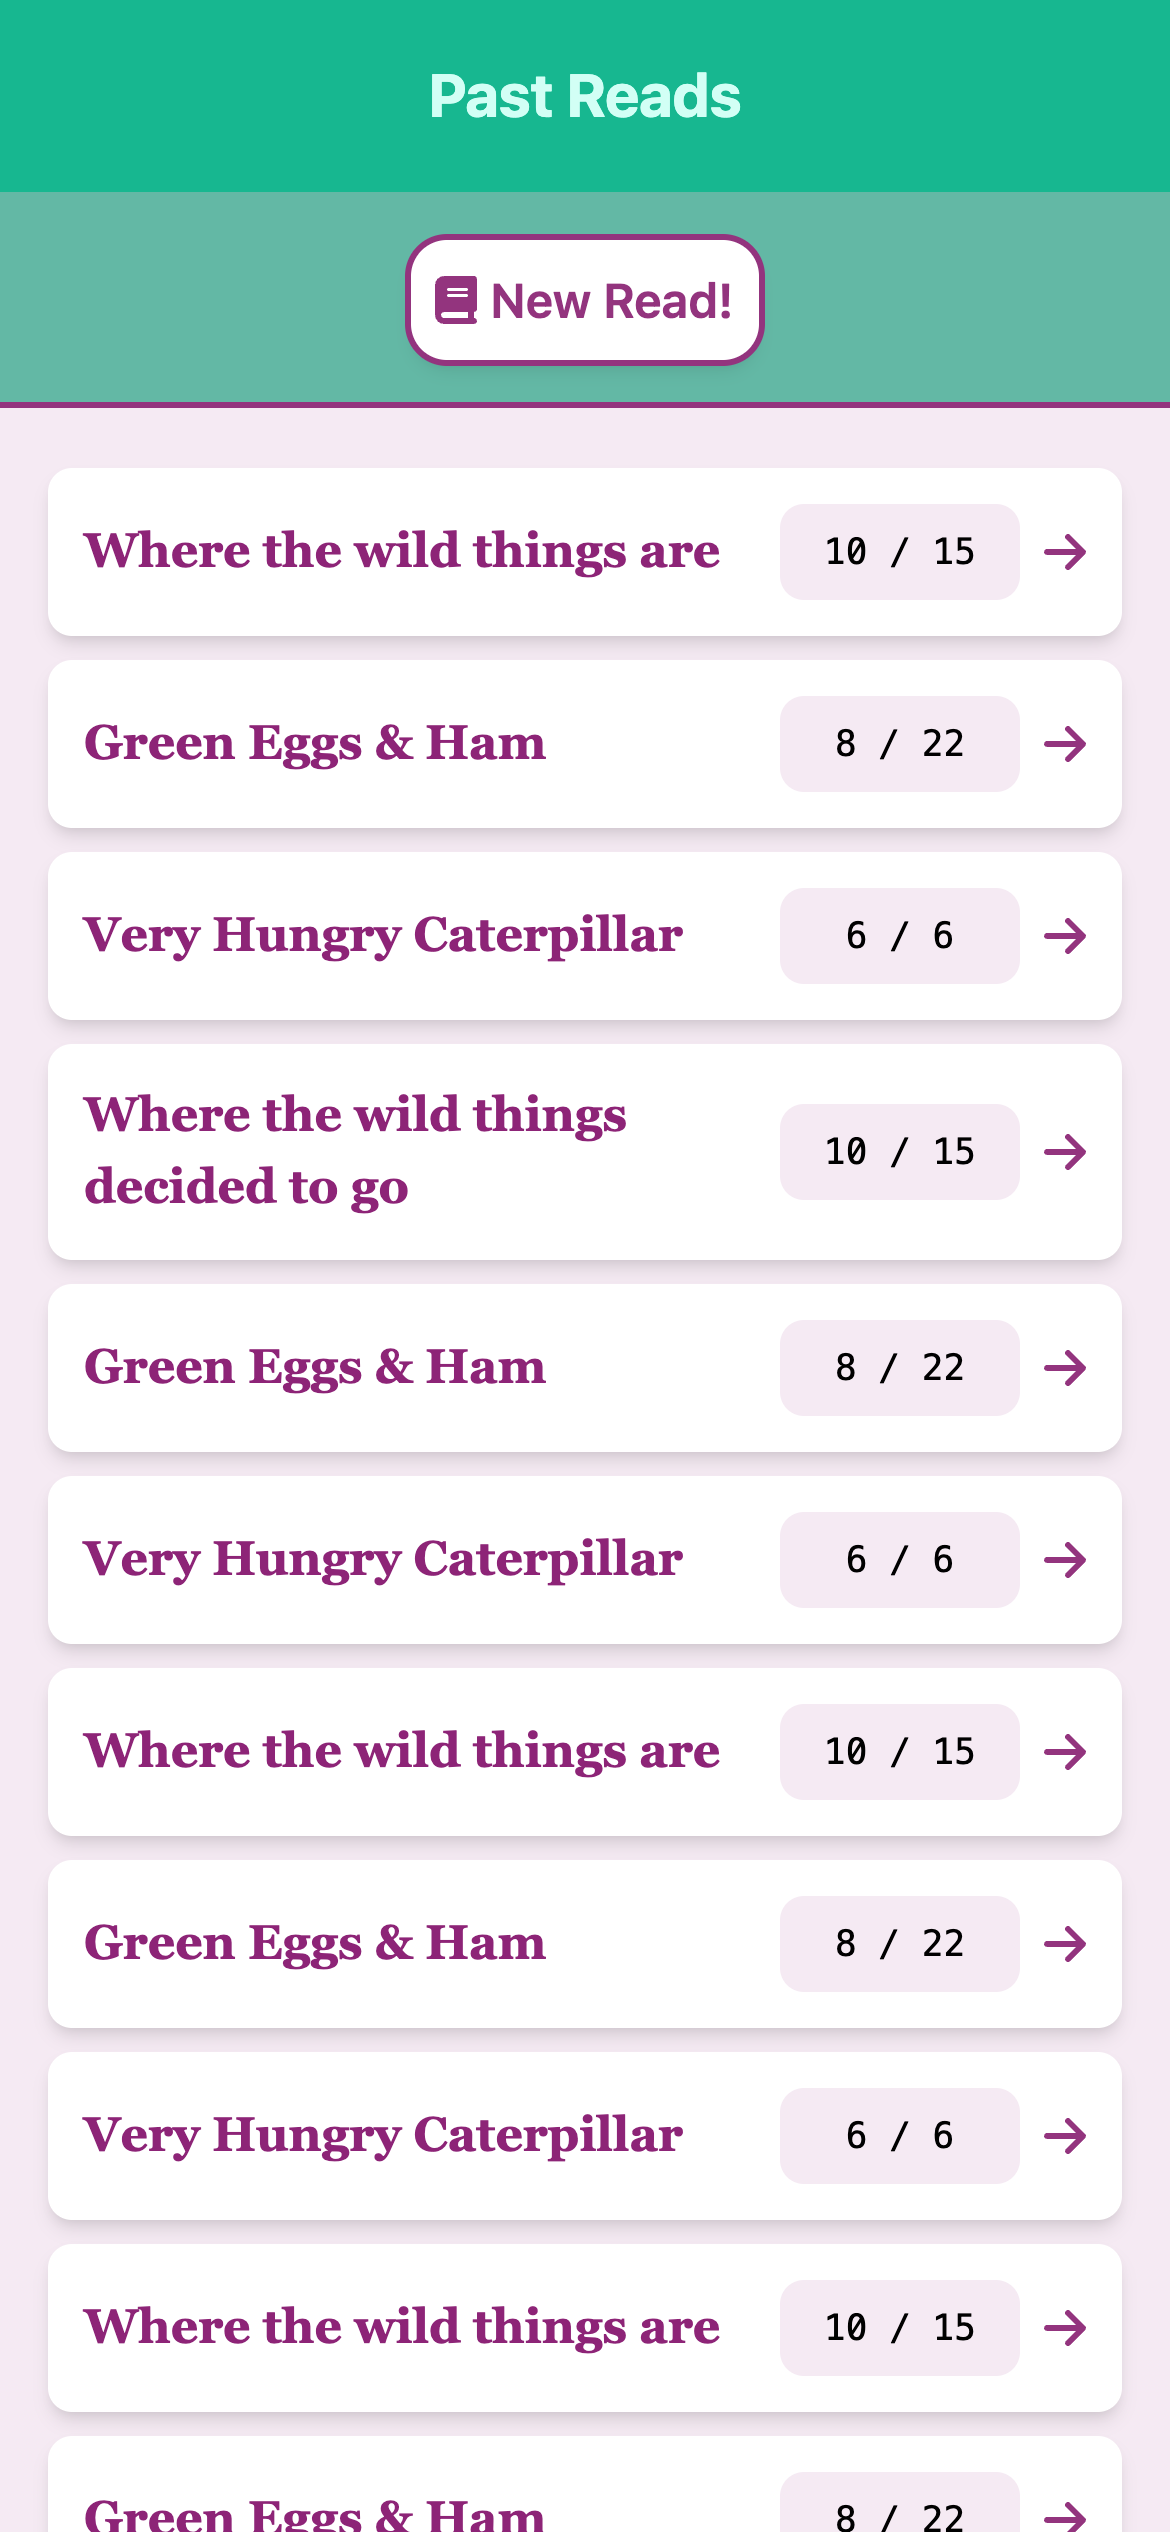
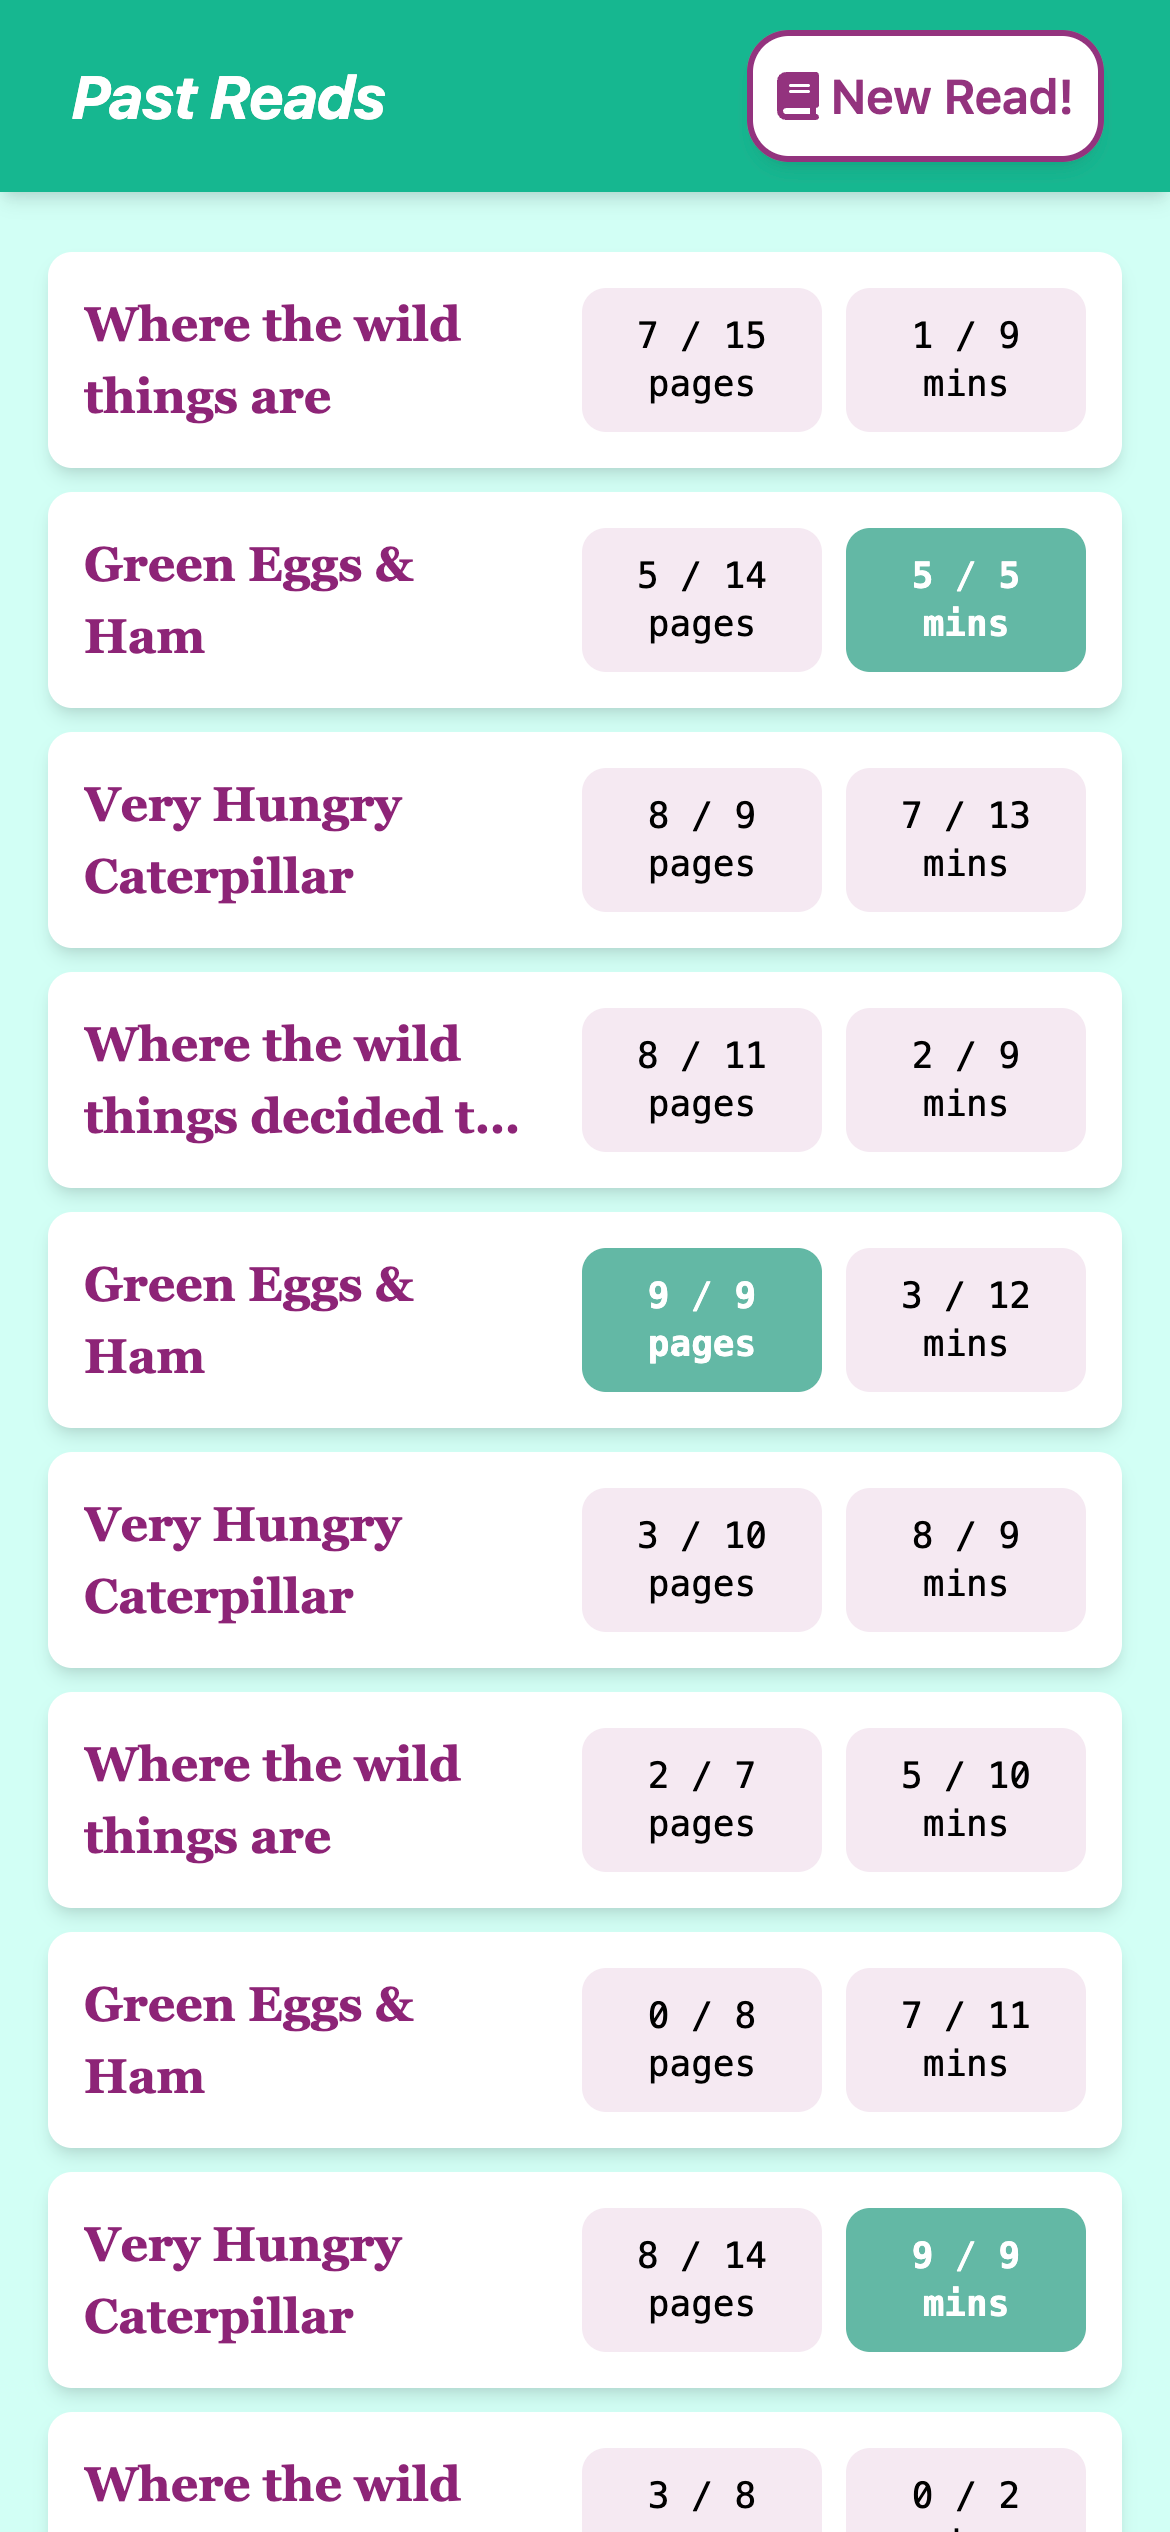
updated screenshots and formatting

diff --git a/src/components/pages/PastReads.tsx b/src/components/pages/PastReads.tsx
@@ -1,67 +1,83 @@
-import { FontAwesomeIcon } from "@fortawesome/react-fontawesome";
 import HDiv from "../utils/HDiv";
 import Spacer from "../utils/Spacer";
 import VList from "../utils/VList";
-import { faArrowRight } from "@fortawesome/free-solid-svg-icons";
 
 interface Read {
   title: string;
   duration: number;
   progress: number;
+  pages: number;
+  pageTarget: number;
 }
 
 class GenericRead implements Read {
   title: string;
   duration: number;
   progress: number;
+  pages: number;
+  pageTarget: number;
 
-  constructor(title: string, duration: number, progress: number) {
+  constructor(title: string) {
     this.title = title;
-    this.duration = duration;
-    this.progress = progress;
+    this.progress = Math.floor(Math.random() * 10);
+    this.duration = this.progress + Math.floor(Math.random() * 10);
+    this.pages = Math.floor(Math.random() * 10);
+    this.pageTarget = this.pages + Math.floor(Math.random() * 10);
   }
 }
 
 const reads: Read[] = [
-  new GenericRead("Where the wild things are", 15, 10),
-  new GenericRead("Green Eggs & Ham", 22, 8),
-  new GenericRead("Very Hungry Caterpillar", 6, 6),
-  new GenericRead("Where the wild things decided to go", 15, 10),
-  new GenericRead("Green Eggs & Ham", 22, 8),
-  new GenericRead("Very Hungry Caterpillar", 6, 6),
-  new GenericRead("Where the wild things are", 15, 10),
-  new GenericRead("Green Eggs & Ham", 22, 8),
-  new GenericRead("Very Hungry Caterpillar", 6, 6),
-  new GenericRead("Where the wild things are", 15, 10),
-  new GenericRead("Green Eggs & Ham", 22, 8),
-  new GenericRead("Very Hungry Caterpillar", 6, 6),
-  new GenericRead("Where the wild things are", 15, 10),
-  new GenericRead("Green Eggs & Ham", 22, 8),
-  //   new GenericRead("Very Hungry Caterpillar", 6, 6),
+  new GenericRead("Where the wild things are"),
+  new GenericRead("Green Eggs & Ham"),
+  new GenericRead("Very Hungry Caterpillar"),
+  new GenericRead("Where the wild things decided to go"),
+  new GenericRead("Green Eggs & Ham"),
+  new GenericRead("Very Hungry Caterpillar"),
+  new GenericRead("Where the wild things are"),
+  new GenericRead("Green Eggs & Ham"),
+  new GenericRead("Very Hungry Caterpillar"),
+  new GenericRead("Where the wild things are"),
+  new GenericRead("Green Eggs & Ham"),
+  new GenericRead("Very Hungry Caterpillar"),
+  new GenericRead("Where the wild things are"),
+  new GenericRead("Green Eggs & Ham"),
+  //   new GenericRead("Very Hungry Caterpillar"),
 ];
 
 function PastReadRow({ read }: { read: Read }) {
-  const { title, duration, progress } = read;
+  const { title, pages, pageTarget, duration, progress } = read;
 
   return (
     <HDiv className="m-1 p-3 bg-white rounded-lg shadow-md gap-2">
-      <h2 className="font-semibold font-serif text-rbp-700">{title}</h2>
+      <h2 className="font-semibold font-serif text-rbp-700 line-clamp-2">
+        {title}
+      </h2>
       <Spacer />
       <p
-        className={`font-mono text-xs bg-rbp-0 rounded-lg p-2 min-w-20 max-w-20 text-center`}
+      className={`font-mono text-xs ${pages === pageTarget ? "bg-rbg-200 text-white font-bold" : "bg-rbp-0"} rounded-lg p-2 min-w-20 max-w-20 text-center`}
+      >
+        {pages}
+        <span className="font-thin">{" / "}</span>
+        {pageTarget}
+        <br />
+        pages
+      </p>
+      <p
+      className={`font-mono text-xs ${progress === duration ? "bg-rbg-200 text-white font-bold" : "bg-rbp-0"} rounded-lg p-2 min-w-20 max-w-20 text-center`}
       >
         {progress}
         <span className="font-thin">{" / "}</span>
         {duration}
+        <br />
+        mins
       </p>
-      <FontAwesomeIcon className="text-rbp-500" icon={faArrowRight} />
     </HDiv>
   );
 }
 
 export default function PastReads() {
   return (
-    <VList className="px-4 mt-4 ring-2 ring-rbp-500 pt-4 bg-rbp-0">
+    <VList className="px-4 py-4 pb-12 bg-rbg-0">
       {reads.map((read, i) => (
         <PastReadRow key={i} read={read} />
       ))}

diff --git a/src/components/layout/Toolbar.tsx b/src/components/layout/Toolbar.tsx
@@ -2,13 +2,16 @@ import HDiv from "../utils/HDiv";
 import { RouteProps, routeToTitle } from "../../types/Route";
 import BackButton from "../reused/BackButton";
 import Spacer from "../utils/Spacer";
+import TimeButton from "../reused/TimeButton";
 
 export default function Toolbar({ route, setRoute }: RouteProps) {
   return (
-    <HDiv id="toolbar" className="h-1/6 bg-rbg-700 p-6">
+    <HDiv id="toolbar" className="h-1/6 bg-rbg-700 p-6 shadow-md z-10">
       {route === "list" && (
         <HDiv>
-          <h1 className="text-xl text-rbg-0 font-bold">Past Reads</h1>
+          <h1 className="text-xl text-white italic font-bold">Past Reads</h1>
+          <Spacer />
+          <TimeButton setRoute={setRoute} destination="setup" />
         </HDiv>
       )}
 
@@ -22,7 +25,7 @@ export default function Toolbar({ route, setRoute }: RouteProps) {
         <>
           <BackButton setRoute={setRoute} />
           <Spacer />
-          <h3 className="p-2 rounded-lg bg-white italic text-rbp-700 font-bold px-4">
+          <h3 className=" text-white text-xl italic font-bold">
             {routeToTitle(route)}
           </h3>
         </>

diff --git a/src/components/layout/Content.tsx b/src/components/layout/Content.tsx
@@ -17,9 +17,6 @@ export default function Content({ route, setRoute }: RouteProps) {
     <VDiv id="content" className="bg-rbg-200">
       {route === "list" && (
         <>
-          <HDiv className="gap-4 pt-4">
-            <TimeButton setRoute={setRoute} destination="setup" />
-          </HDiv>
           <PastReads />
         </>
       )}
